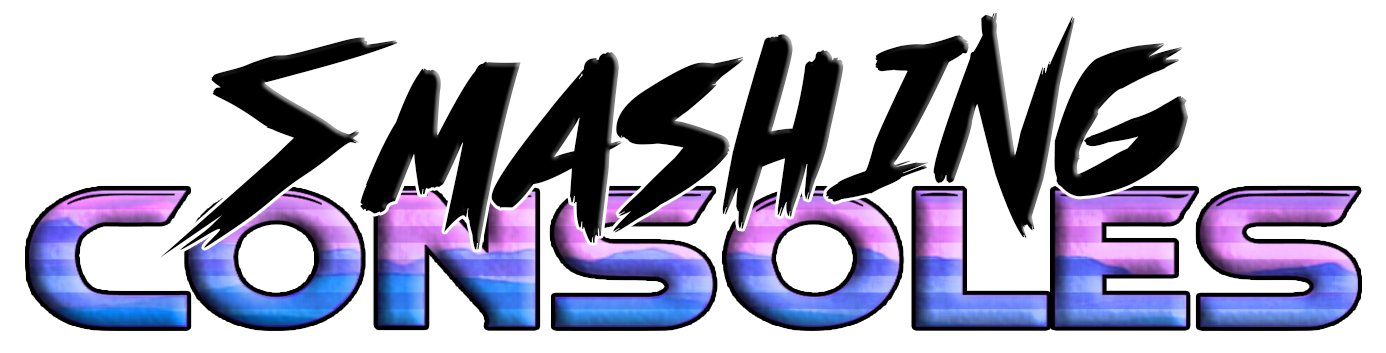
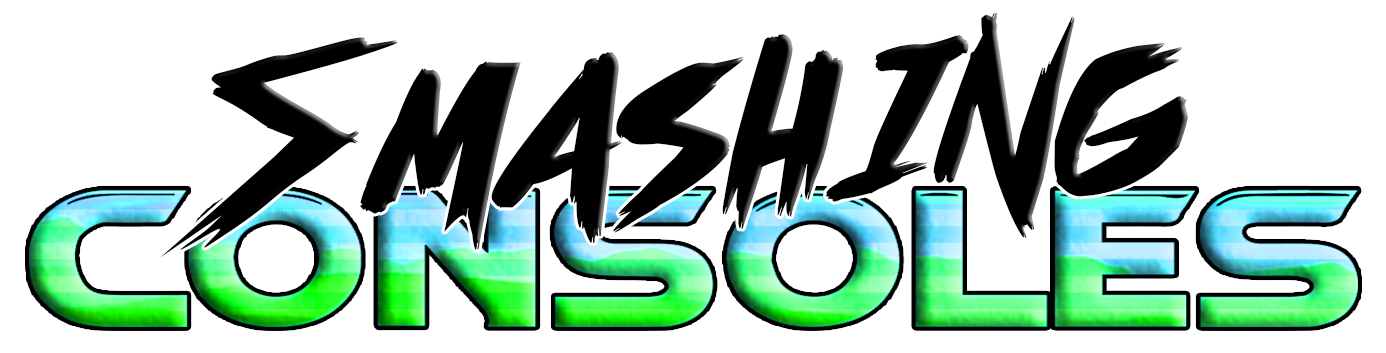
testing new landing images

Changed region(s): [[0.0, 0.5297, 0.9928, 0.9348]]

diff --git a/index.html b/index.html
@@ -60,7 +60,7 @@
 			<div class="temp_home"></div>				
 			<div class="home-overlay"></div>				
 			<div class="intro">
-				<div class="start-header"><img src="assets/images/smashed.png" alt="SMASHING CONSOLES" height="100%" width="100%" style="max-width: 1000px; opacity: 0.95;"></div>
+				<div class="start-header"><img src="assets/images/bandname.png" alt="SMASHING CONSOLES" height="100%" width="100%" style="max-width: 1000px; opacity: 0.95;"></div>
 			</div>
 				
 			<a href="#stream">
@@ -107,7 +107,7 @@
 		<footer class="footer navbar-fixed-bottom">
 			<div class="navbar-custom-footer">
 				<div class="container" align="center">
-					<iframe style="position: relative; display: block; width: 330px; height: 80px;background-color:transparent;" src="https://bandcamp.com/EmbeddedPlayer/track=2578046023/size=grande/bgcol=ffffff/artwork=none/transparent=true/" allowtransparency="true" frameborder="0"></iframe></div>
+					<iframe style="position: relative; display: block; width: 330px; height: 80px;background-color:transparent;" src="https://bandcamp.com/EmbeddedPlayer/album=2711471813/size=grande/bgcol=ffffff/artwork=none/transparent=true/" allowtransparency="true" frameborder="0"></iframe></div>
 			</div>
 		</footer>
 		<!-- bandcamp Footer end -->

diff --git a/assets/css/style.css b/assets/css/style.css
@@ -647,7 +647,7 @@ textarea.form-control {
 	position: relative;
 	width: 100%;
 	z-index: 998;
-	opacity: 0.97;
+	opacity: 0.98;
 }
 
 .navbar-custom {
@@ -725,7 +725,7 @@ textarea.form-control {
 	background: #ffffff;
 	height: 36px;
 	bottom: 0;
-	opacity: 0.9;
+	opacity: 0.98;
 	overflow: hidden;
 }
 
